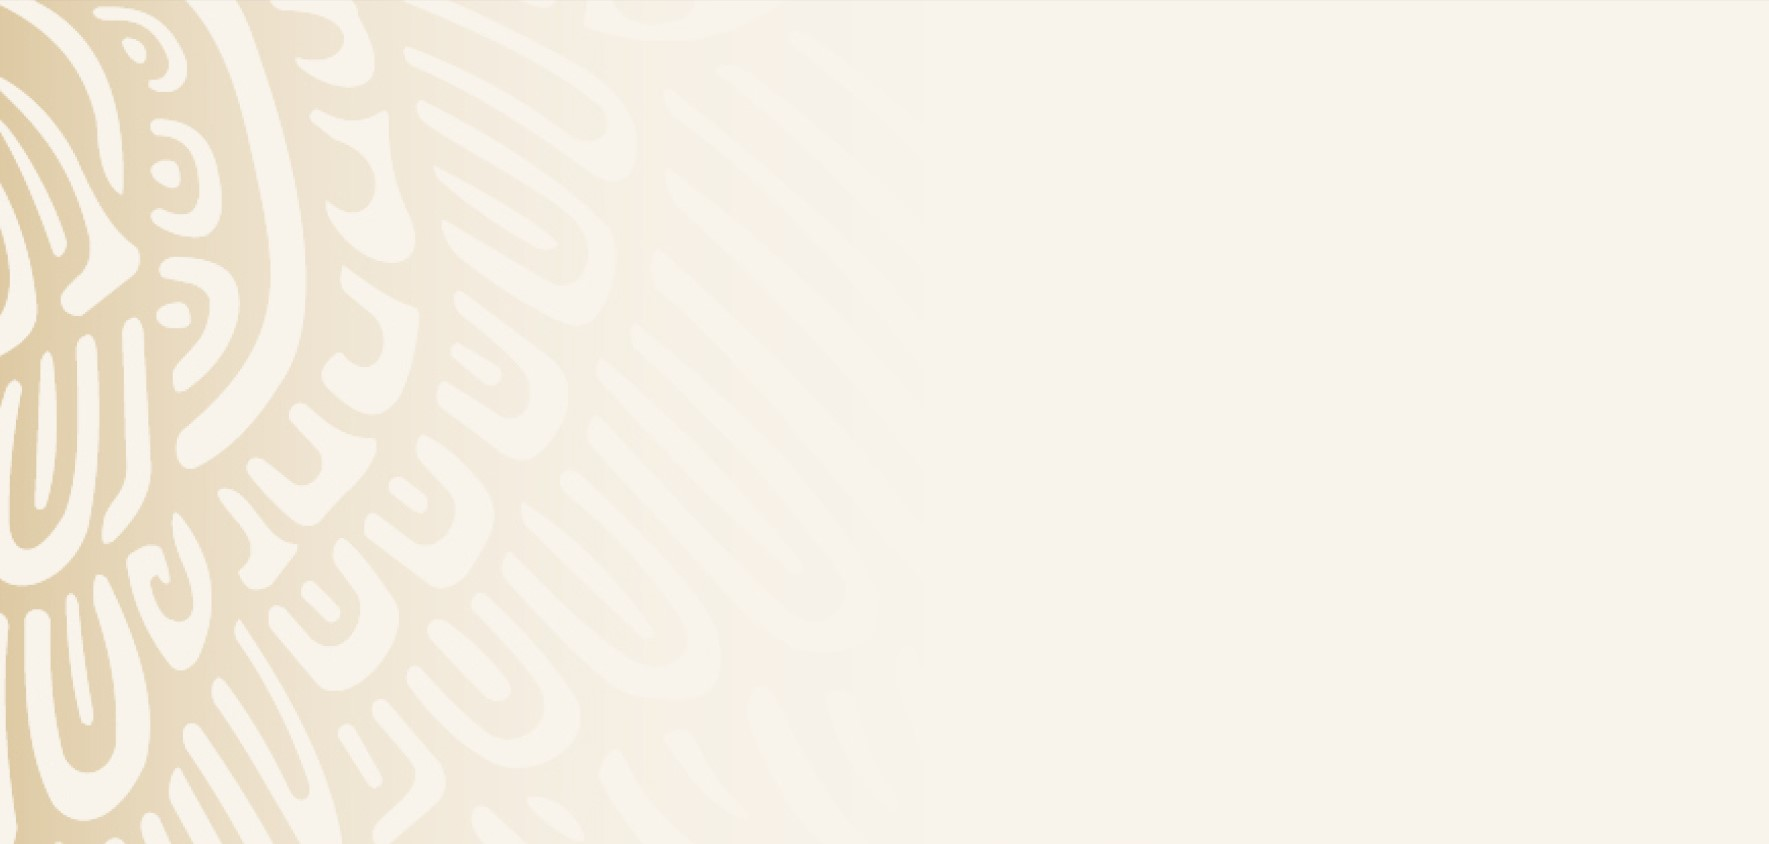
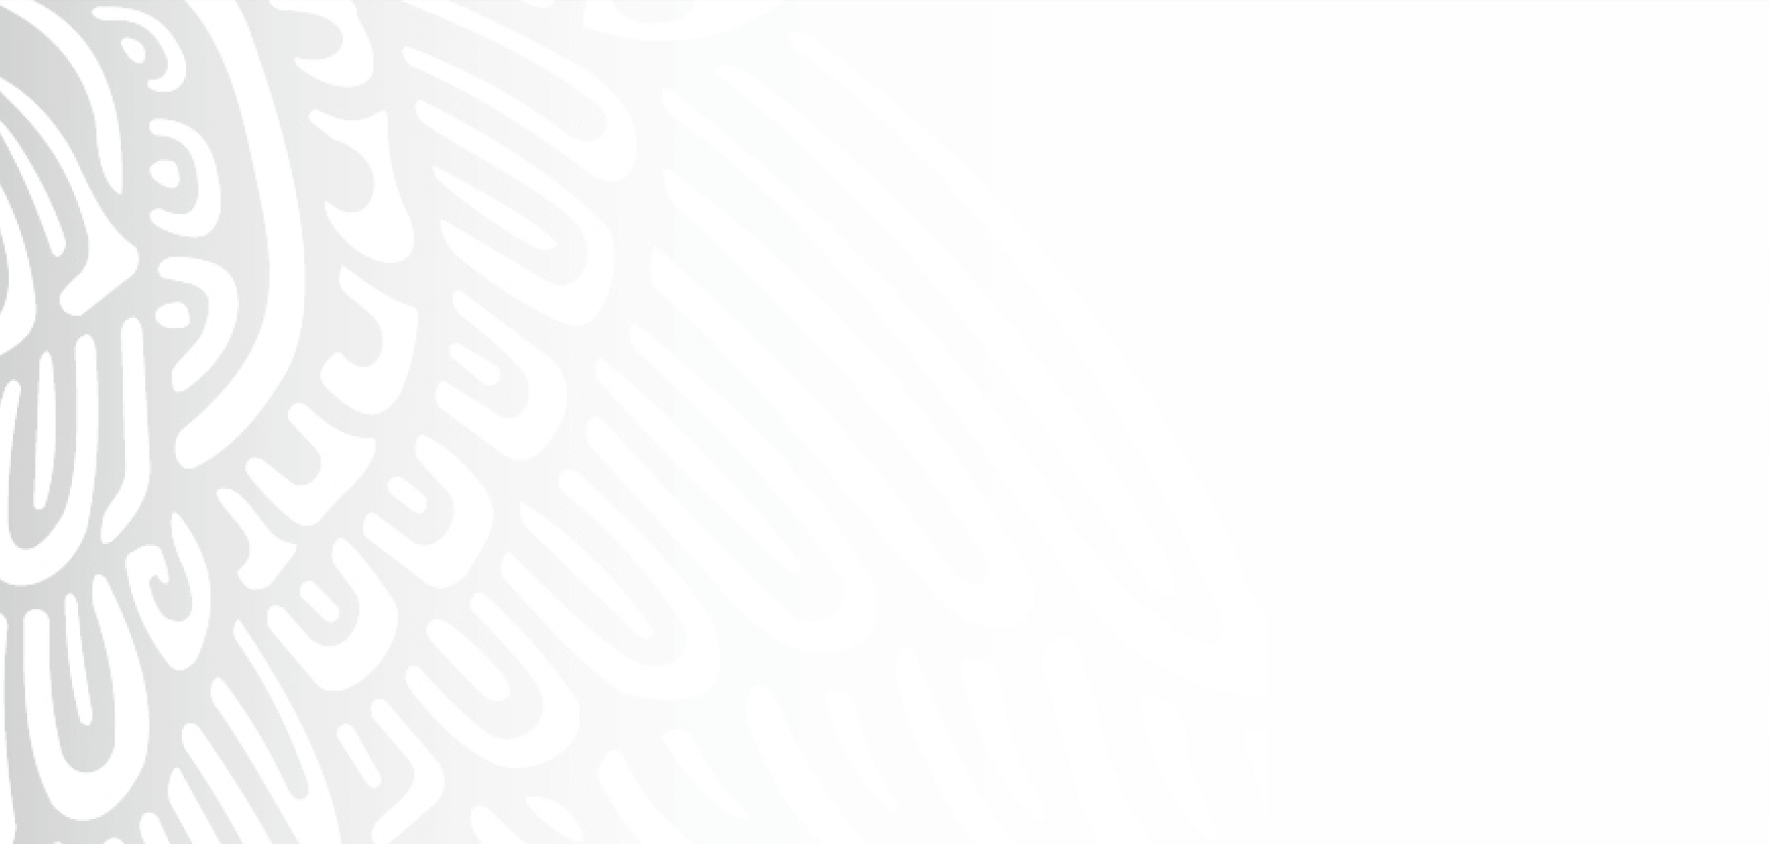
Update login layout and text colors

diff --git a/src/styles/_variables.scss b/src/styles/_variables.scss
@@ -14,10 +14,10 @@ $primary-color: hsl(166, 44%, 25%) !default;
 $primary-color-light: hsl(166, 44%, 35%) !default;
 $primary-color-dark: hsl(166, 44%, 13%) !default;
 
-$secondary-color: #98989a !default;
-$secondary-color-light: #afafaf !default;
-$secondary-color-semi-light: #808080 !default;
-$secondary-color-dark: #4d4d4d !default;
+$secondary-color: hsl(0, 0%, 60%) !default;
+$secondary-color-light: hsl(0, 0%, 70%) !default;
+$secondary-color-semi-light: hsl(0, 0%, 50%) !default;
+$secondary-color-dark: hsl(0, 0%, 30%) !default;
 
 $warning-color: hsl(345, 65%, 38%) !default;
 $warning-color-light: hsl(345, 65%, 43%);
@@ -84,8 +84,8 @@ $screen-standard: 1440px;
 //
 $layout-gradient-initial-color: $primary-color-dark;
 $layout-gradient-final-color: $primary-color;
-$layout-secondary-color: $accent-color-light;
-$layout-secondary-color-dark: $accent-color;
+$layout-secondary-color: $secondary-color-light;
+$layout-secondary-color-dark: $secondary-color;
 $layout-margin-size: 10px;
 $toolbar-item-background: #f3f3f3;
 $toolbar-item-background-hover: lighten($primary-color, 70%);
@@ -176,12 +176,12 @@ $tag-warning-background-color: $accent-color-light !default;
 $tag-error-background-color: $warning-color-light !default;
 
 $list-selection-header-background-color: hsl(210, 20%, 90%) !default;
-$simple-list-background-color: $control-disabled-background !default;
+$simple-list-background-color: hsl(166, 20%, 97%) !default;
 
 //
 // grid
 //
-$grid-header-background-color: #f5efe7 !default;
+$grid-header-background-color: lighten($accent-color, 38%) !default;
 $grid-header-color: $primary-color !default;
 $grid-footer-background-color: $disabled-color;
 $grid-border: 0;
@@ -196,9 +196,10 @@ $grid-entry-padding-vertical: 8px;
 $grid-entry-padding-horizontal: 15px;
 $grid-entry-padding-vertical-first: 10px;
 $grid-entry-padding-vertical-default: 8px;
-$grid-nested-background-color: #e0e6eb;
-$grid-nested-hover-background-color: #d0dae1;
-$grid-nested-border: 2px solid #859cad;
+$grid-nested-background-color: hsl(166, 44%, 95%);
+$grid-nested-hover-background-color: hsl(166, 44%, 90%);
+$grid-nested-border-color: hsl(166, 44%, 35%);
+$grid-nested-border: 2px solid $grid-nested-border-color;
 
 //
 // Designer

diff --git a/src/styles/reporting-formats.scss b/src/styles/reporting-formats.scss
@@ -82,13 +82,18 @@ table.mat-mdc-table tr.mat-mdc-row {
     font-style: italic;
 
     td:first-of-type {
-      padding-left: 32px;
       border-right: $grid-nested-border;
     }
+  }
 
-    td:nth-child(3) {
-      padding-left: 16px;
-    }
+  td.shadow-cell {
+    position: relative;
+    box-shadow: 4px 0 6px -2px rgba(0, 0, 0, 0.1);
+    padding: 8px;
+  }
+
+  td.spacing-level {
+    padding-left: calc(16px * var(--level));
   }
 
   &:hover {

diff --git a/src/styles/general-styles.scss b/src/styles/general-styles.scss
@@ -396,7 +396,16 @@ textarea:focus {
   font-weight: 600;
 }
 
+.italic-text {
+  font-style: italic;
+}
+
 .underline-text {
+  text-decoration: underline;
+}
+
+.highlight-text {
+  color: $primary-color;
   text-decoration: underline;
 }
 
